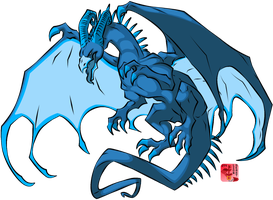
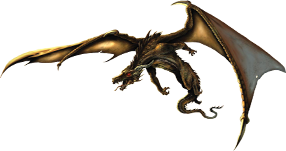
new boss picture

diff --git a/src/application/Styling/application.css b/src/application/Styling/application.css
@@ -23,8 +23,8 @@
 #dragon{
     -fx-background-image: url("../../Images/boss/dragon.png");
     -fx-background-position: center center;
-    -fx-min-width: 273px;
-    -fx-min-height: 200px;
+    -fx-min-width: 286px;
+    -fx-min-height: 151px;
 }
 
 #configuration{
@@ -69,6 +69,14 @@
     -fx-background-repeat: no-repeat;
     -fx-min-width: 35px;
     -fx-max-height: 5px;
+    -fx-background-position: center center;
+}
+
+#fire {
+    -fx-background-image: url("../../Images/boss/fire.png");
+    -fx-background-repeat: no-repeat;
+    -fx-min-width: 65px;
+    -fx-max-height: 24px;
     -fx-background-position: center center;
 }
 

diff --git a/src/application/Client.java b/src/application/Client.java
@@ -14,14 +14,10 @@ import java.io.IOException;
 
 public class Client extends Application {
 
-
     public static BorderPane mainLayout;
-
     public static Scene scene;
-
     private Stage primaryStage;
     private Engine instance = Engine.getInstance();
-
 
     public Client() {
         instance.setUi(this);
@@ -46,11 +42,11 @@ public class Client extends Application {
 
     @Override
     public void start(Stage primaryStage) {
+        mainLayout = new BorderPane();
+        scene = new Scene(mainLayout);
         this.primaryStage = primaryStage;
         this.primaryStage.setTitle("Medieval Wars");
         this.primaryStage.setResizable(false);
-        mainLayout = new BorderPane();
-        scene = new Scene(mainLayout);
         showMainView();
         primaryStage.setOnCloseRequest(e -> {
             e.consume();

diff --git a/src/application/Multiplayer/ClientProgram.java b/src/application/Multiplayer/ClientProgram.java
@@ -4,6 +4,7 @@ import application.Models.Vector2D;
 import com.esotericsoftware.kryonet.Client;
 import com.esotericsoftware.kryonet.Connection;
 import com.esotericsoftware.kryonet.Listener;
+
 import java.io.IOException;
 import java.util.LinkedList;
 
@@ -12,11 +13,13 @@ import java.util.LinkedList;
 public class ClientProgram extends Listener {
 
 
-	private String ip = "localhost";
+	//private String ip = "localhost";
 	private int tcpPort = 27960, udpPort = 27960;
 	private Client client;
 	private static PacketMessage pm ;
 	//String ip = "172.31.22.151";
+
+	String ip = "172.31.22.151";
 
 
 	public static PacketMessage getPm() {

diff --git a/src/application/Controllers/SinglePlayerController.java b/src/application/Controllers/SinglePlayerController.java
@@ -58,7 +58,7 @@ public class SinglePlayerController {
         instance.setWeaponType(weapons[index]);
         instance.setFollowerType(followerType.getValue());
         instance.setLevelType(levelType.getValue());
-        Game newGame = new Game(Client.scene, Client.mainLayout,true);
+        Game newGame = new Game(Client.scene, Client.mainLayout,false);
         newGame.initGame();
     }
 }

diff --git a/src/application/Multiplayer/ServerProgram.java b/src/application/Multiplayer/ServerProgram.java
@@ -9,6 +9,8 @@ import com.esotericsoftware.kryonet.Connection;
 import com.esotericsoftware.kryonet.Listener;
 import com.esotericsoftware.kryonet.Server;
 
+import static sun.net.www.protocol.http.AuthCacheValue.Type.Server;
+
 
 public class ServerProgram extends Listener {
 

diff --git a/src/application/Engine/DbConnection.java b/src/application/Engine/DbConnection.java
@@ -17,7 +17,7 @@ public class DbConnection {
 
         String url = "jdbc:mysql://localhost/geowars";
         String username = "root";
-        String password = "localhost";
+        String password = "";
 
 
         try {
